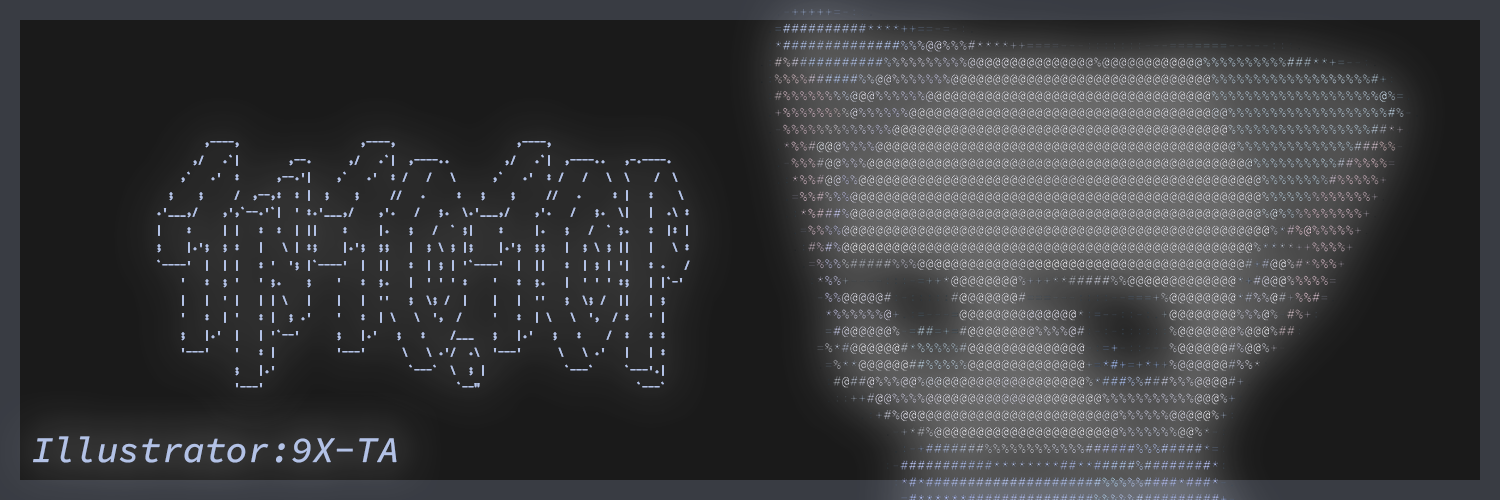
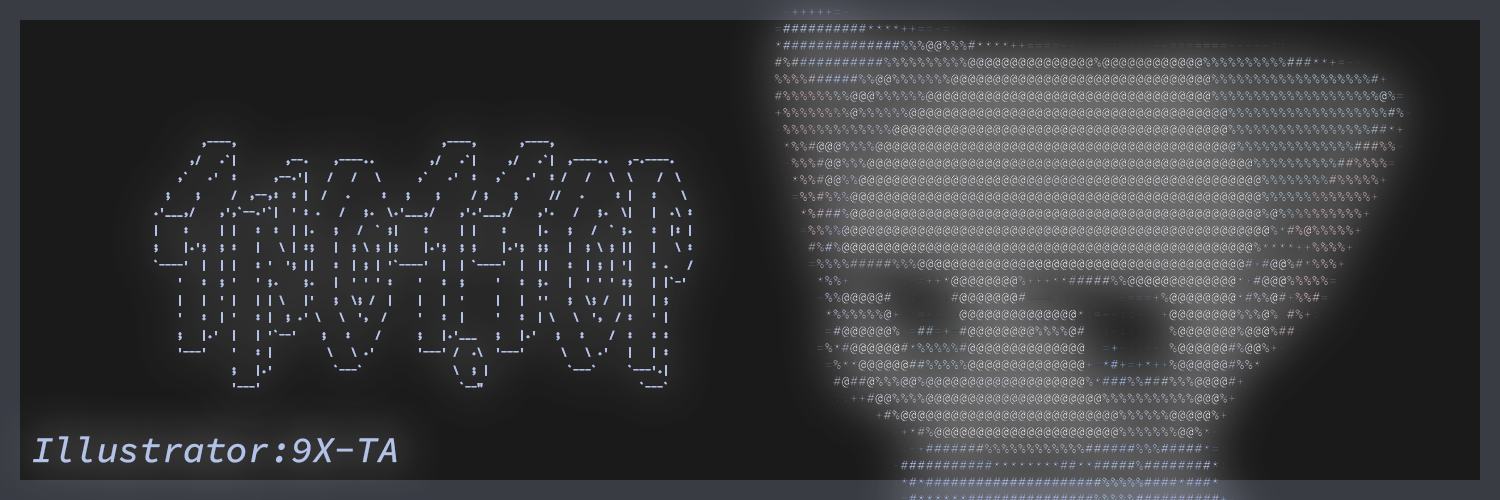
fix br

diff --git a/content/_index.zh-cn.md b/content/_index.zh-cn.md
@@ -30,6 +30,8 @@ cascade:
 
 ![立绘](img/tachie.png "绘：[忘月](https://space.bilibili.com/8430379)")
 
+<br><br>
+
 # 友情链接
 
 [![passthem.top](img/link/passthem.png)](https://passthem.top)